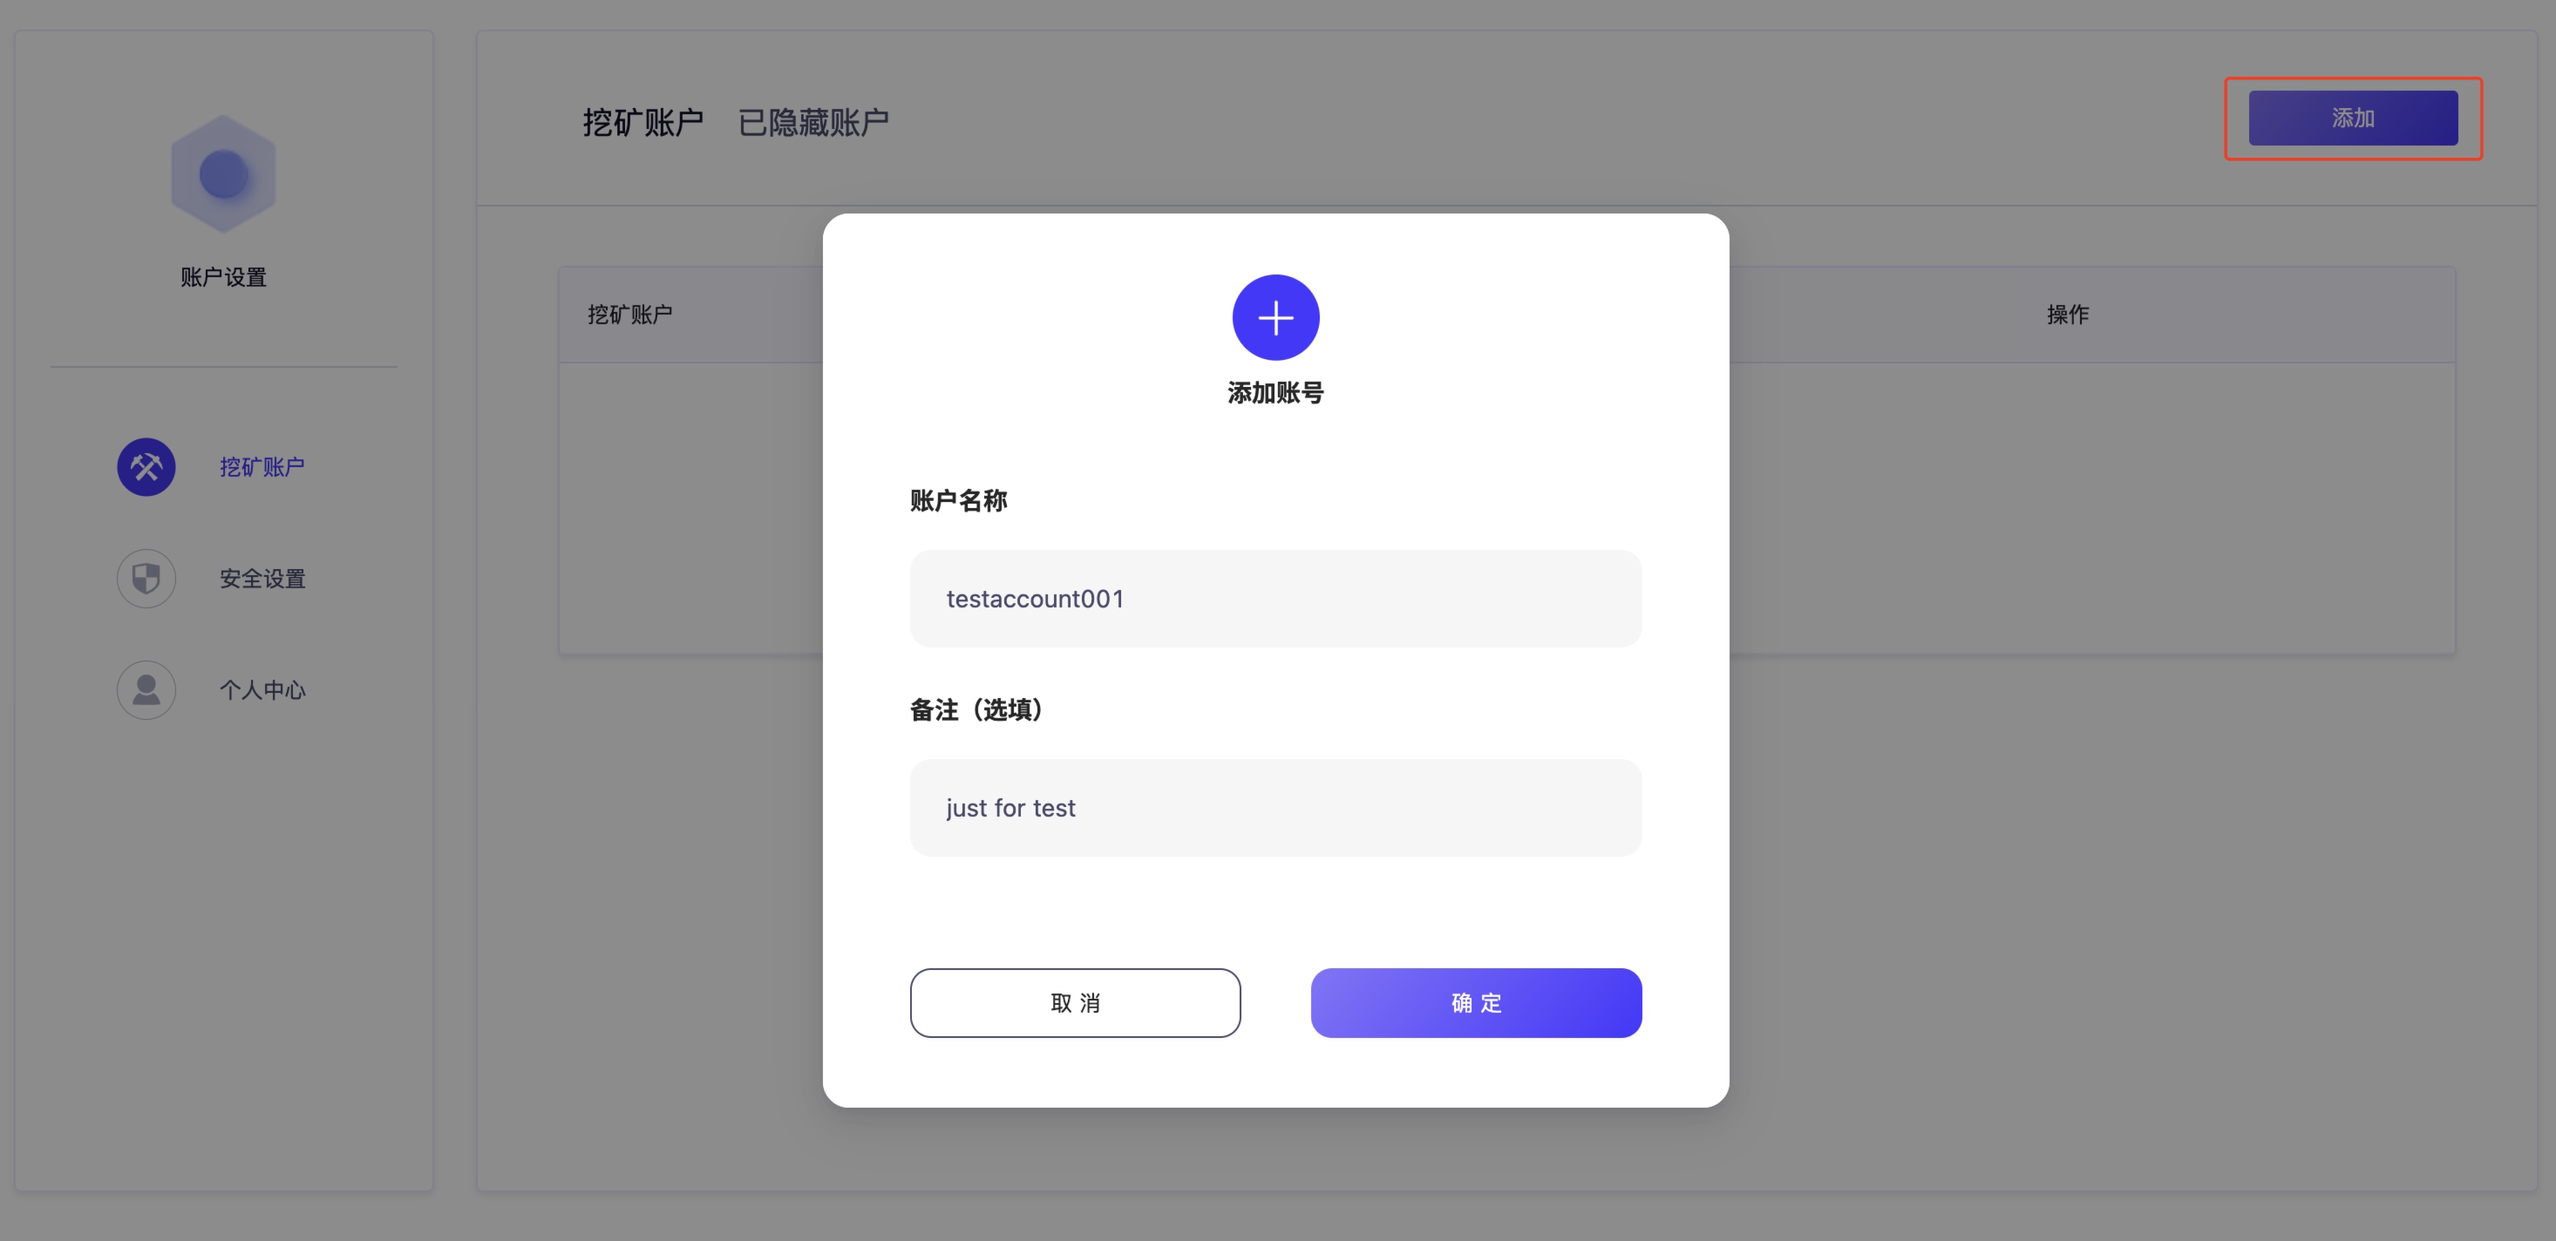
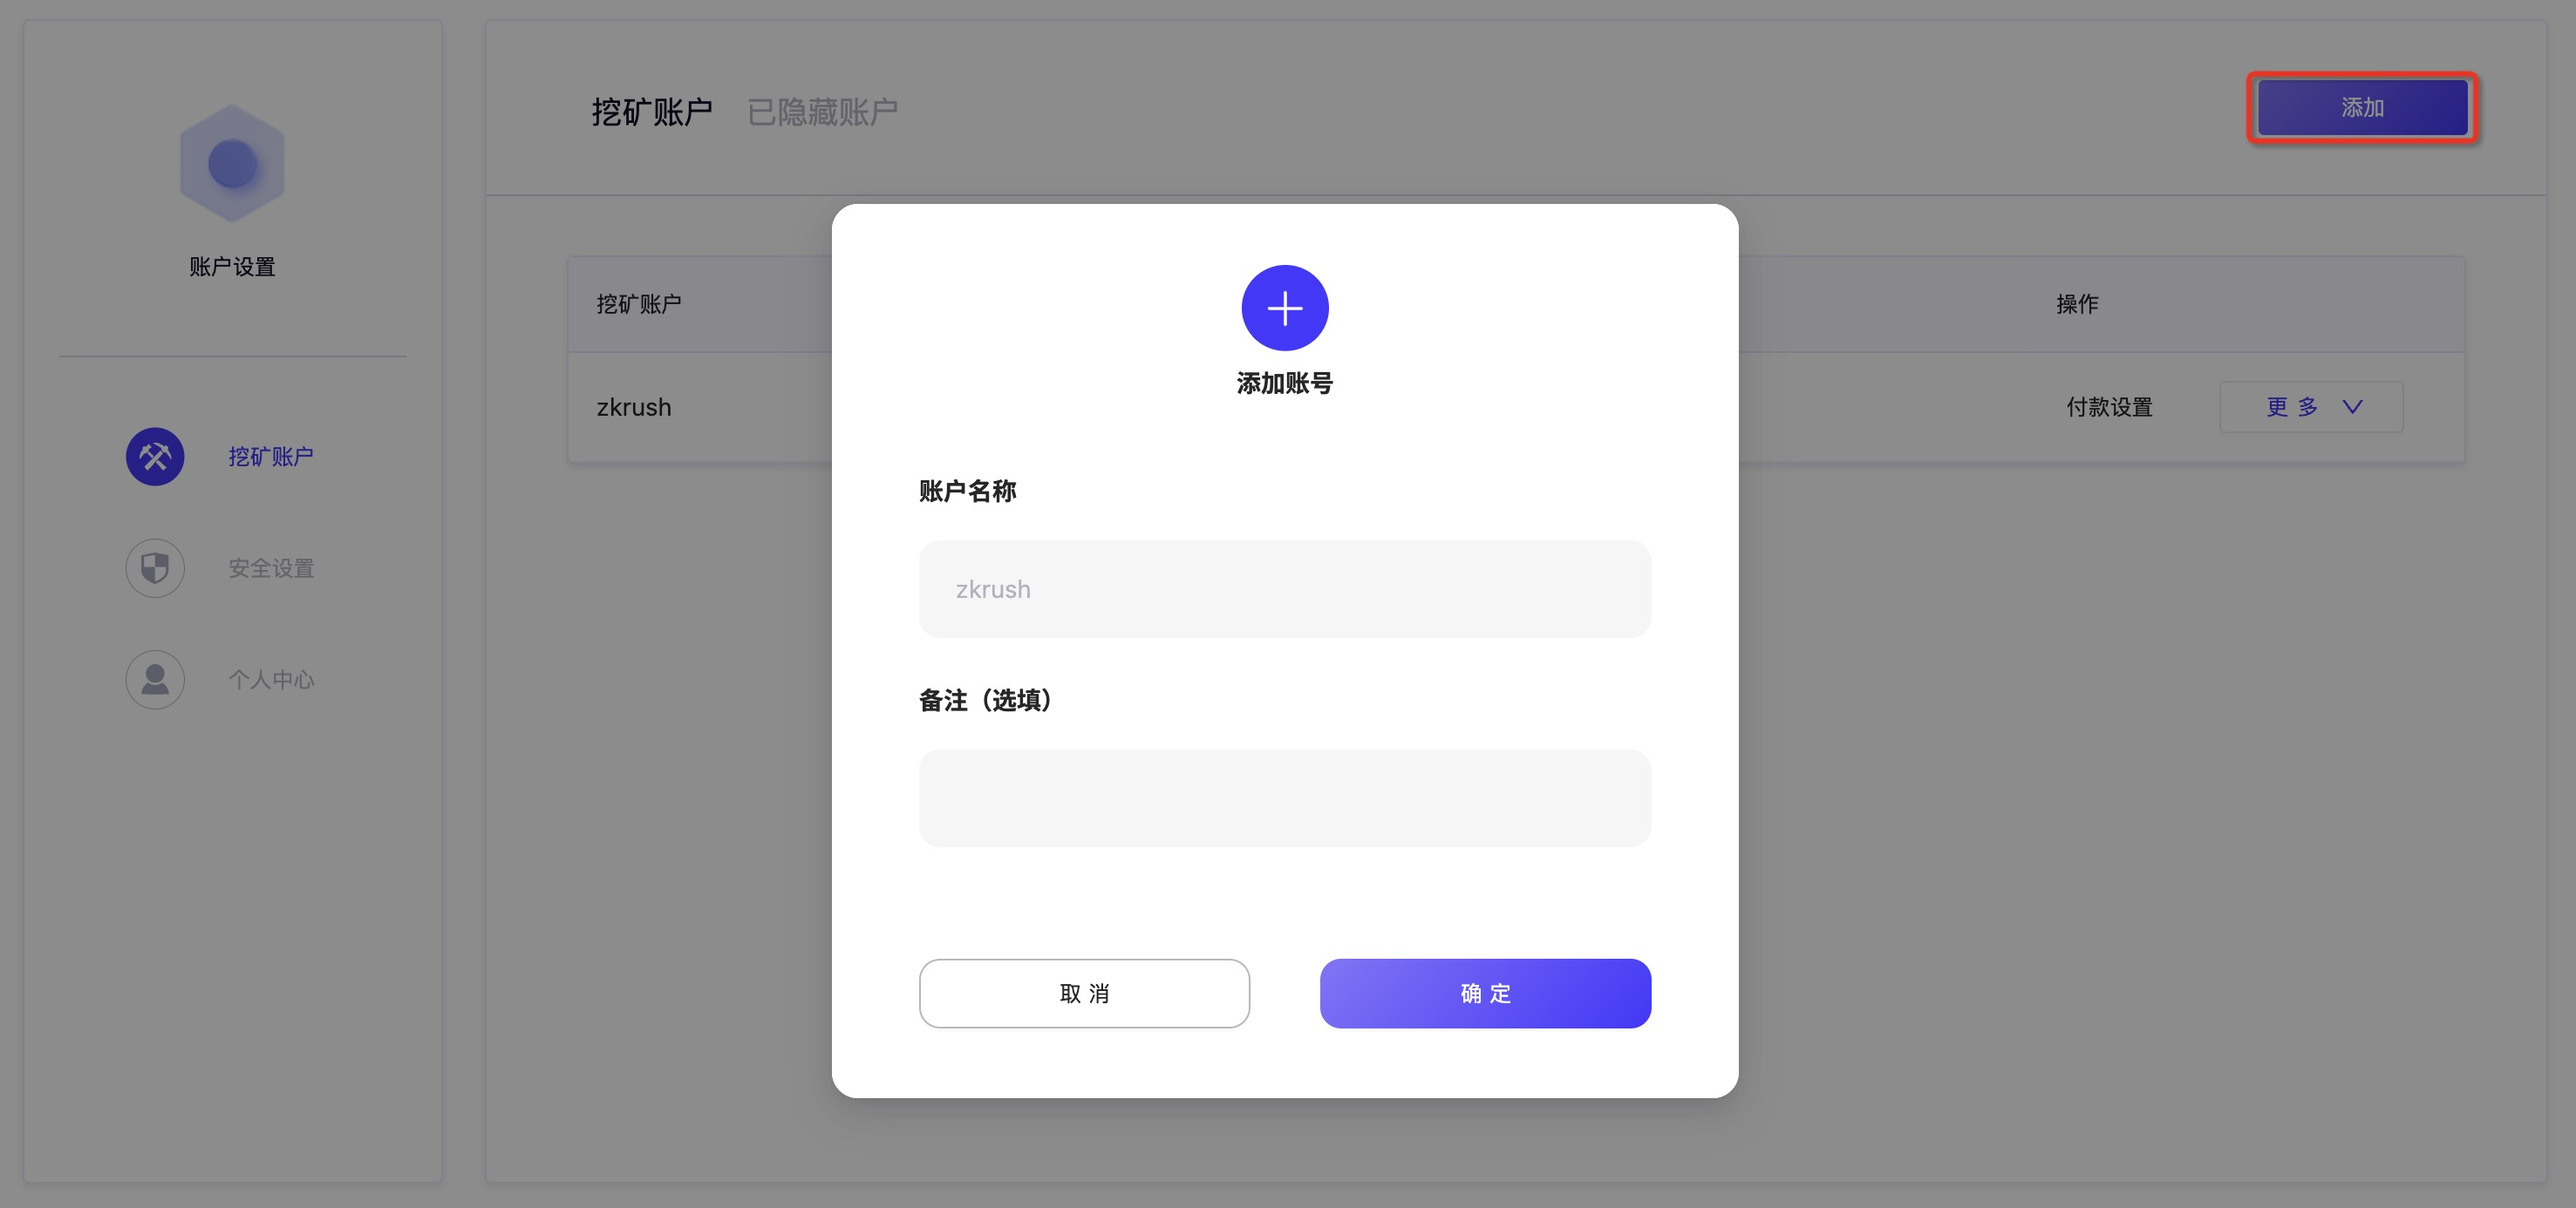
docs-v0.11

diff --git a/docs/index.html b/docs/index.html
@@ -21,21 +21,23 @@
 
       loadSidebar: true,
 
+      loadNavbar: true,
+
       search: "auto",
       search: {
         maxAge: 86400000,
-        placeholder: "🔍   Type to search",
+        placeholder: "🔍   Search",
         noData: "No Results For This",
         depth: 6,
         hideOtherSidebarContent: false
       },
     };
   </script>
-  // 全文搜索插件
+  <!--全文搜索插件-->
   <script src="//cdn.bootcss.com/docsify/4.5.9/plugins/search.min.js"></script>
-  // 图片缩放插件
+  <!--图片缩放插件-->
   <script src="//cdn.jsdelivr.net/npm/docsify/lib/plugins/zoom-image.min.js"></script>
-  // 复制代码块插件
+  <!--复制代码块插件-->
   <script src="//cdn.jsdelivr.net/npm/docsify-copy-code/dist/docsify-copy-code.min.js"></script>
   <!-- Docsify v4 -->
   <script src="//cdn.jsdelivr.net/npm/docsify@4"></script>

diff --git a/docs/_document/miner_account.md b/docs/_document/miner_account.md
@@ -1,0 +1,50 @@
+# 添加/隐藏/删除挖矿账号
+
+在[ZKRush](https://www.zkrush.com)登录**主账号**后，点击右上角头像进入**账户设置**
+
+<img src="../_media/enter_account_setting.png" alt="alt add_miner_account"  />
+
+
+
+## 添加挖矿账号
+
+1、**账户设置**页面点击**添加挖矿账号**
+
+> *挖矿账号全站唯一*
+>
+> *命名规则：2-15个小写字母或数字，且不能以数字开头*
+>
+> *可以添加并修改账号备注*
+
+<img src="../_media/add_miner_account.png" alt="alt add_miner_account"  />
+
+
+
+## 隐藏挖矿账号
+
+1、**账户设置**页面，选择**更多**，点击**隐藏账户**
+
+2、在**已隐藏账户**中，点击**取消隐藏**，即可恢复隐藏账户
+
+<img src="../_media/hide_miner_account.png" alt="alt hide_miner_account"  /><img src="../_media/recover_hide_miner_account.png" alt="alt recover_hide_miner_account"  />
+
+
+
+## 删除挖矿账号
+
+1、**账户设置**页面，在**已隐藏账户**下，点击**删除账户**，即可删除该挖矿账号
+
+> *需要将挖矿账号隐藏后，才能进行删除操作*
+>
+> *⚠ 挖矿账号删除后无法恢复，对应记录也会被删除；删除的挖矿账号无法被再次注册，请谨慎操作；*
+
+<img src="../_media/delete_miner_account.png" alt="alt delete_miner_account"  />
+
+
+
+
+
+
+
+
+

diff --git a/docs/_document/aleo_testnet.md b/docs/_document/aleo_testnet.md
@@ -1,0 +1,52 @@
+# ALEO测试网挖矿教程
+
+## 支持设备
+
+操作系统：Window、Linux
+
+GPU：N卡
+
+
+
+## 矿池节点地址
+
+stratum+tcp://aleo.zkrush.com:3030
+
+
+
+## 一、添加挖矿账号
+
+1、 参考文档 [添加挖矿账号](/_document/miner_account?id=添加挖矿账号)
+
+
+
+## 二、获取挖矿客户端
+
+ 1、客户端下载地址: https://github.com/zkrush/aleo-pool-client/releases
+
+选择适合您操作系统的版本
+
+![alt github_release](../_media/github_release.png)
+
+
+
+## 三、启动挖矿客户端
+
+### 1、CLI启动方式
+
+```shell
+aleo-pool-client --dest=47.241.247.18:3030 run --miner-account testaccount001 --owner-name testserver001
+
+--dest             #矿池节点地址
+--miner-account    #挖矿账号
+--owner-name       #主机名，默认为default
+```
+
+
+
+### 2、GUI启动方式
+
+【保留】
+
+
+

diff --git a/docs/_sidebar.md b/docs/_sidebar.md
@@ -1,5 +1,9 @@
-- [- 教程中心](_document/TutorialCenter.md)
+- [- 挖矿教程](_document/MinerTutorial.md)
 
-  - [- ALEO测试网挖矿教程](_document/ALEO测试网挖矿教程.md)
+  - [- ALEO测试网挖矿教程](_document/aleo_testnet.md)
 
-- [- 帮助中心](_document/HelpCenter.md)
+- [- 网站教程](_document/WebTutorial.md)
+
+  - [- 添加/隐藏/删除挖矿账号](_document/miner_account.md)
+
+- [- 公告中心](_document/NoticeCenter.md)

diff --git a/docs/_document/MinerTutorial.md b/docs/_document/MinerTutorial.md
@@ -1,0 +1,1 @@
+# 挖矿教程

diff --git a/docs/_document/NoticeCenter.md b/docs/_document/NoticeCenter.md
@@ -1,0 +1,1 @@
+# 公告中心

diff --git a/docs/_document/WebTutorial.md b/docs/_document/WebTutorial.md
@@ -1,0 +1,1 @@
+# 网站教程
